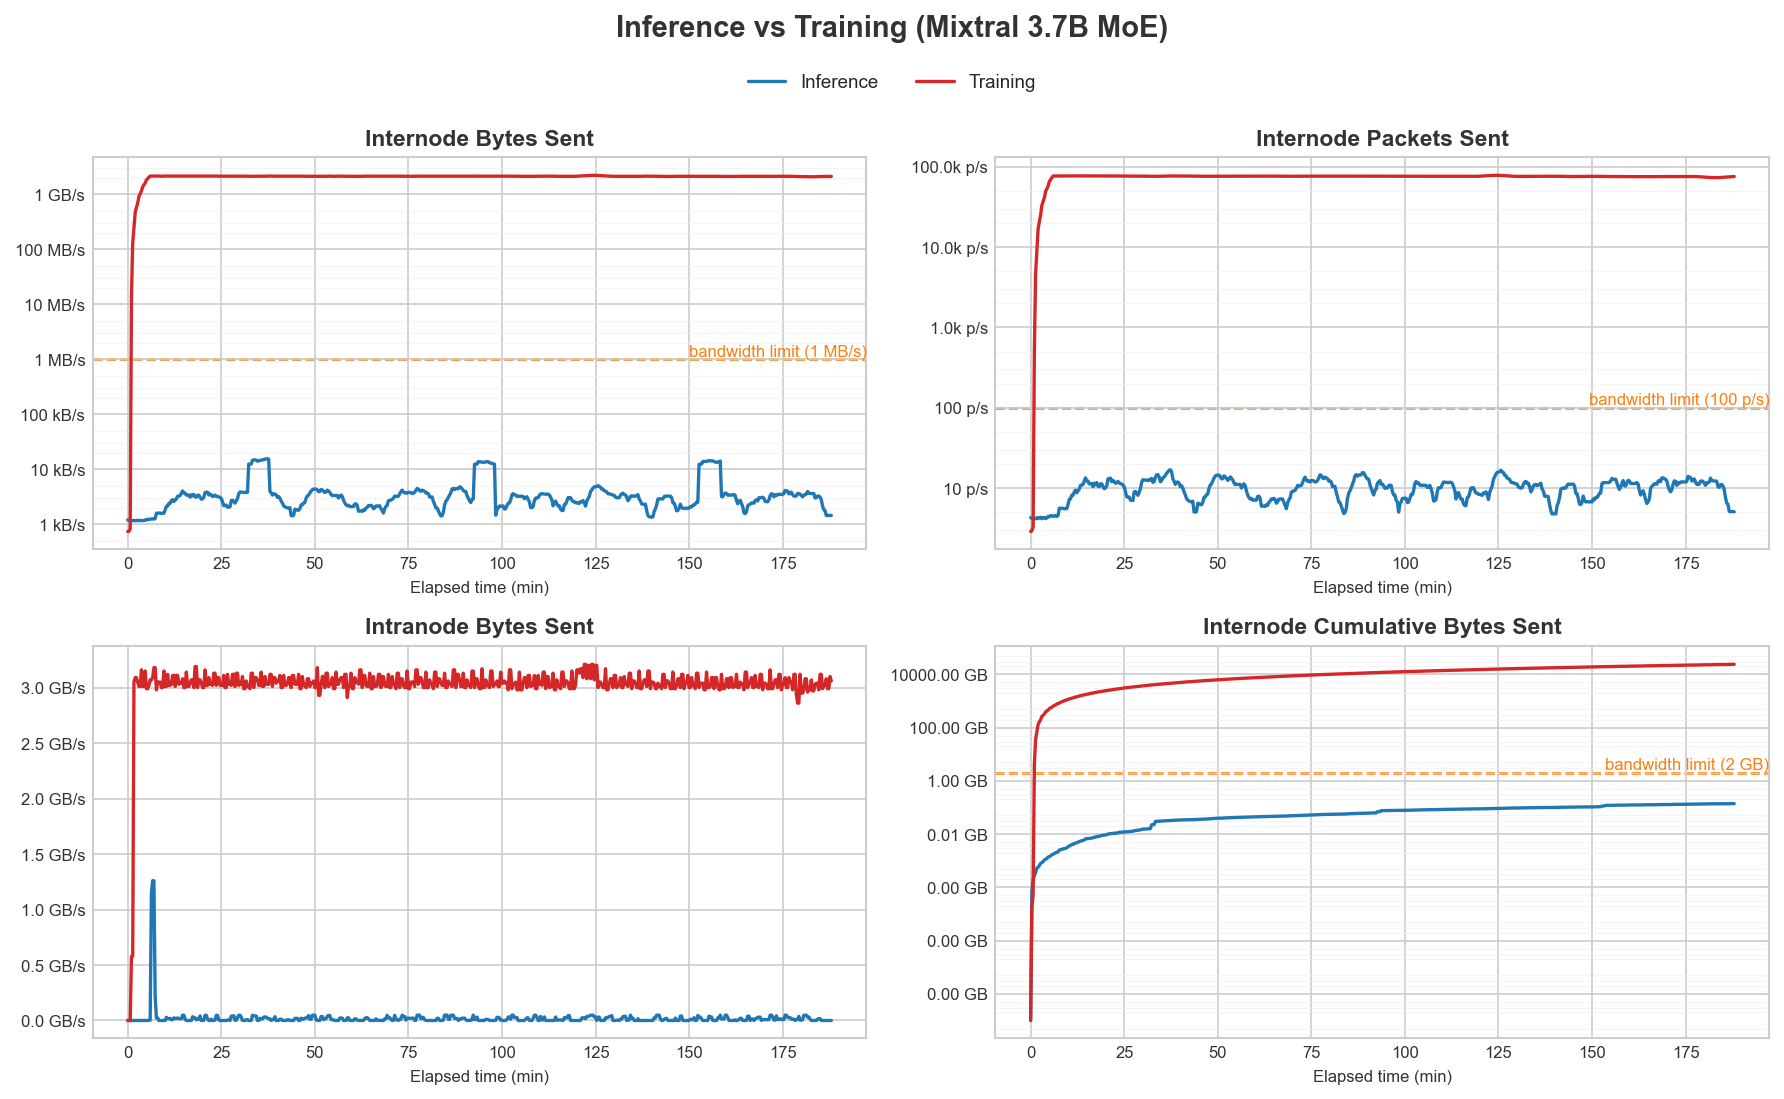
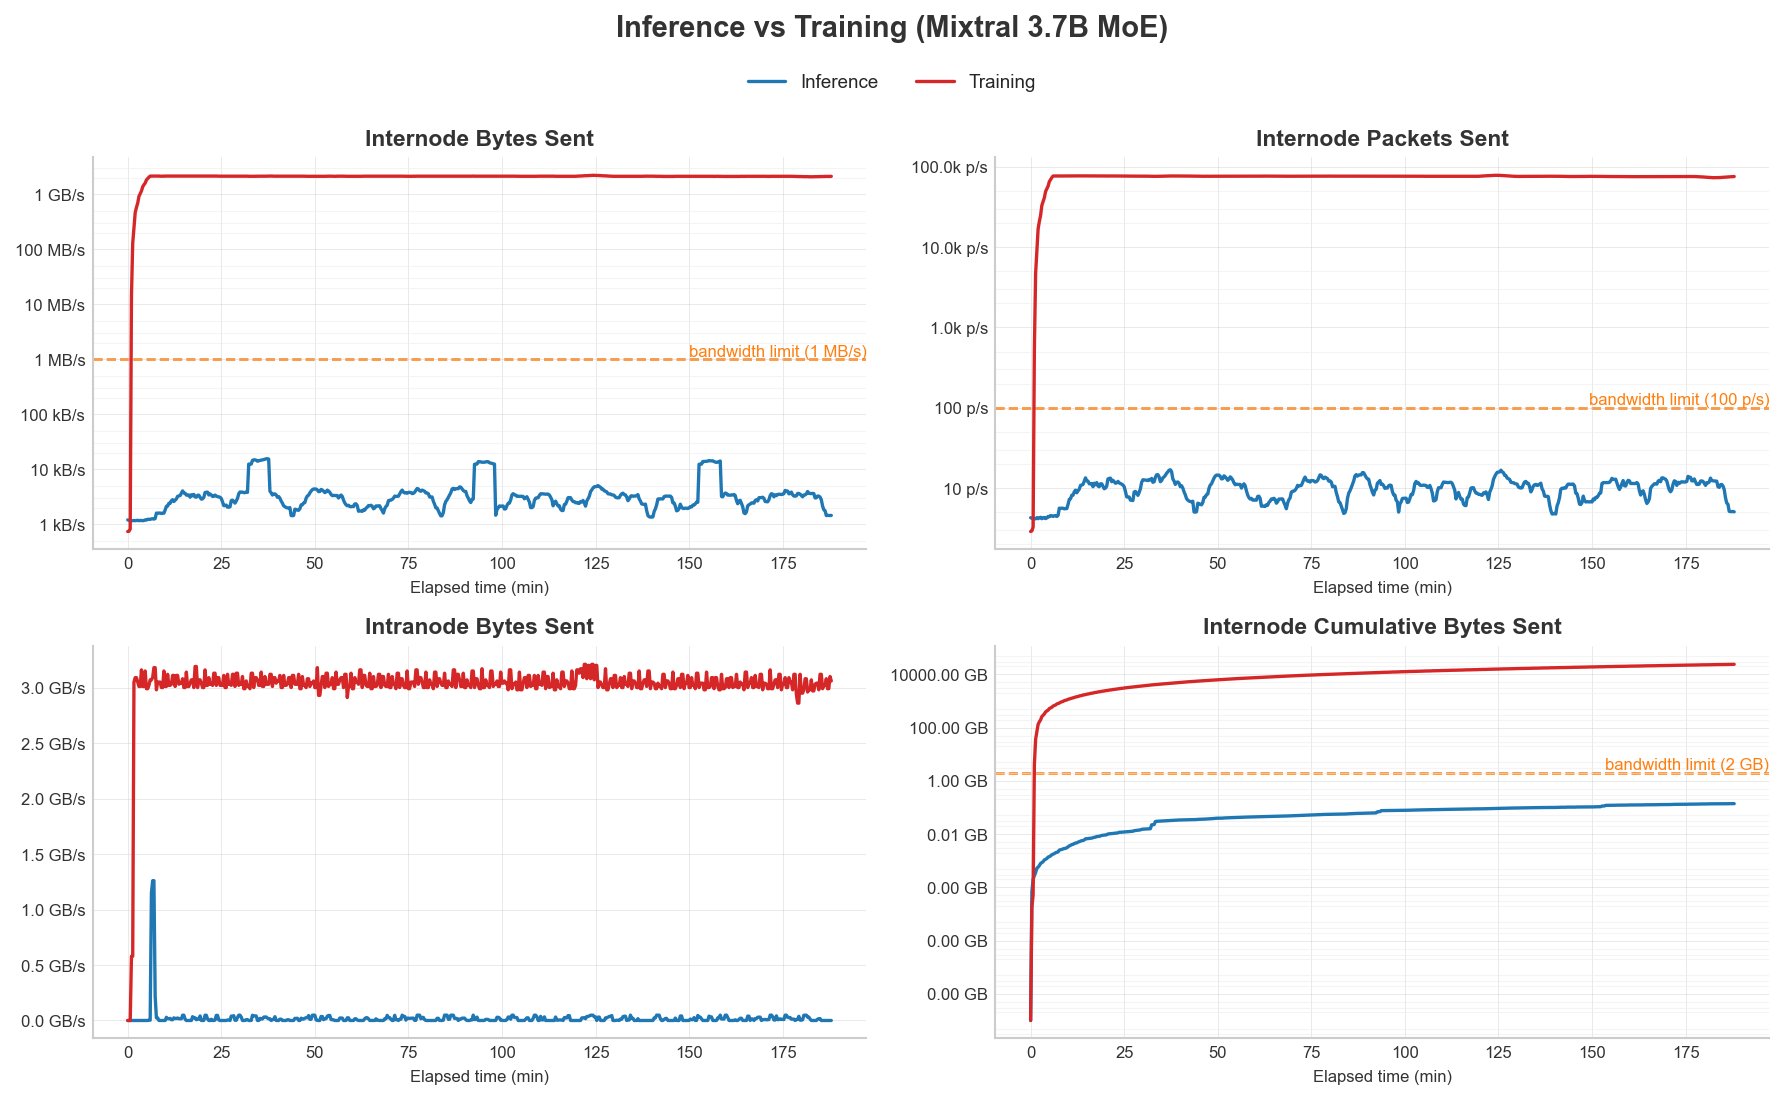
Remove top/right spines and reduce grid thickness

Changed region(s): [[0.9865, 0.5878, 1.0, 0.6187]]

diff --git a/scripts/analysis/plot_dashboard.py b/scripts/analysis/plot_dashboard.py
@@ -379,6 +379,9 @@ def plot_comparison(inf_folder: Path, train_folder: Path, output_path: Path,
             ax.yaxis.set_major_formatter(
                 ticker.FuncFormatter(packets_formatter))
 
+        ax.spines[["top", "right"]].set_visible(False)
+        ax.grid(True, linewidth=0.4, alpha=0.5)
+
     fig.suptitle(
         title,
         fontsize=14,
